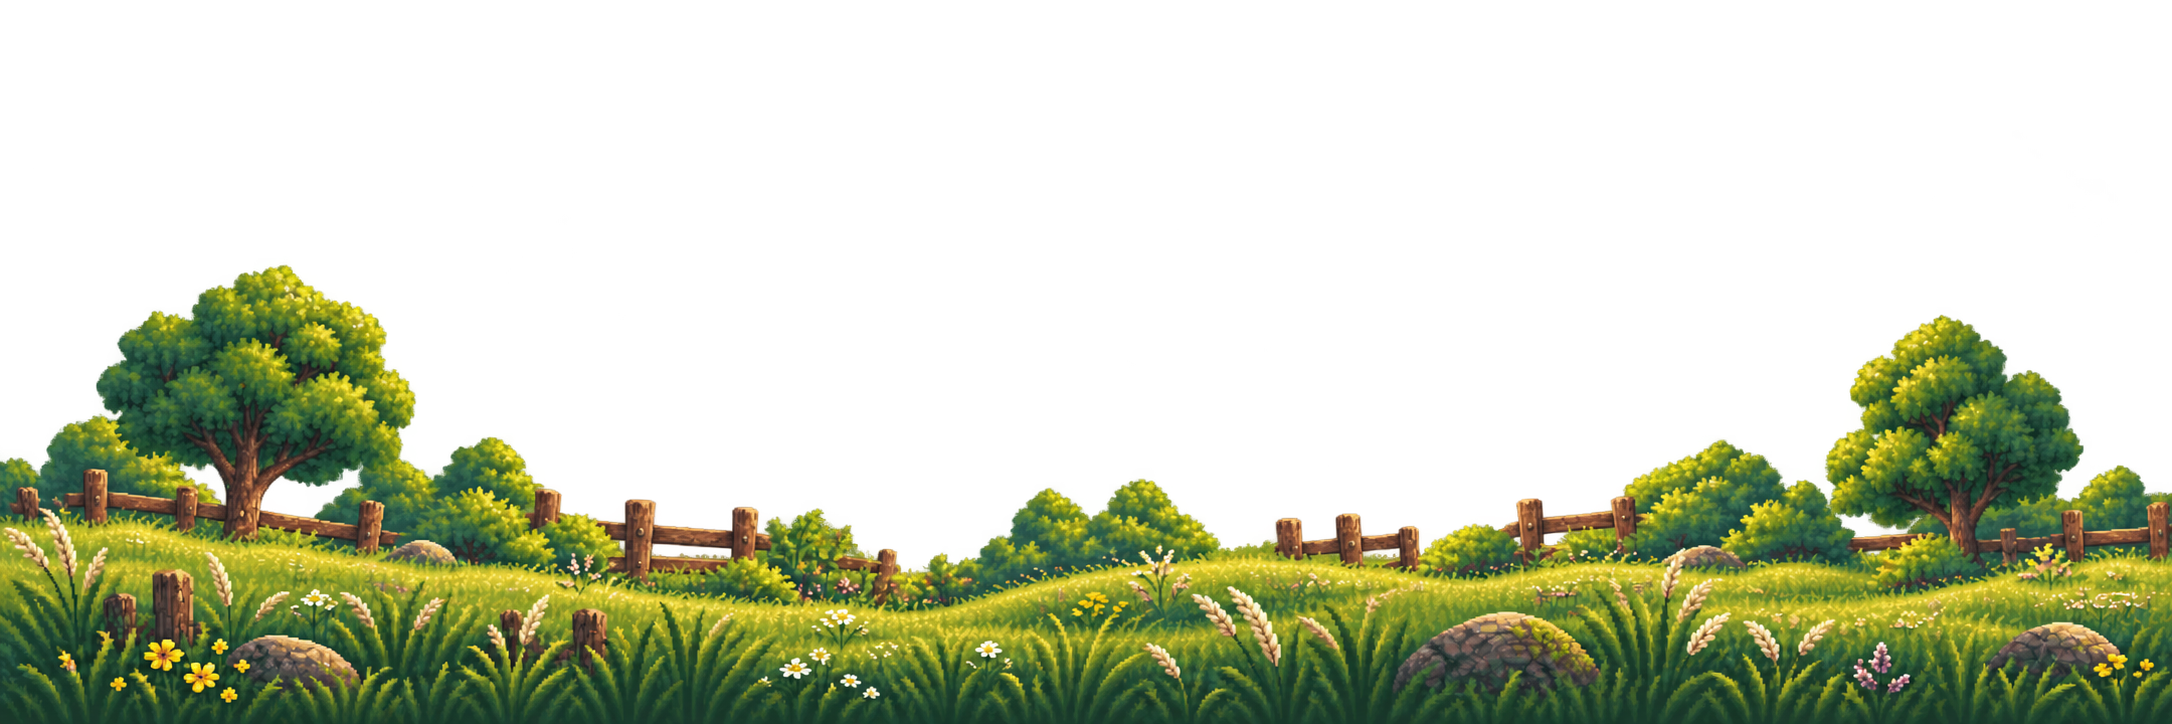
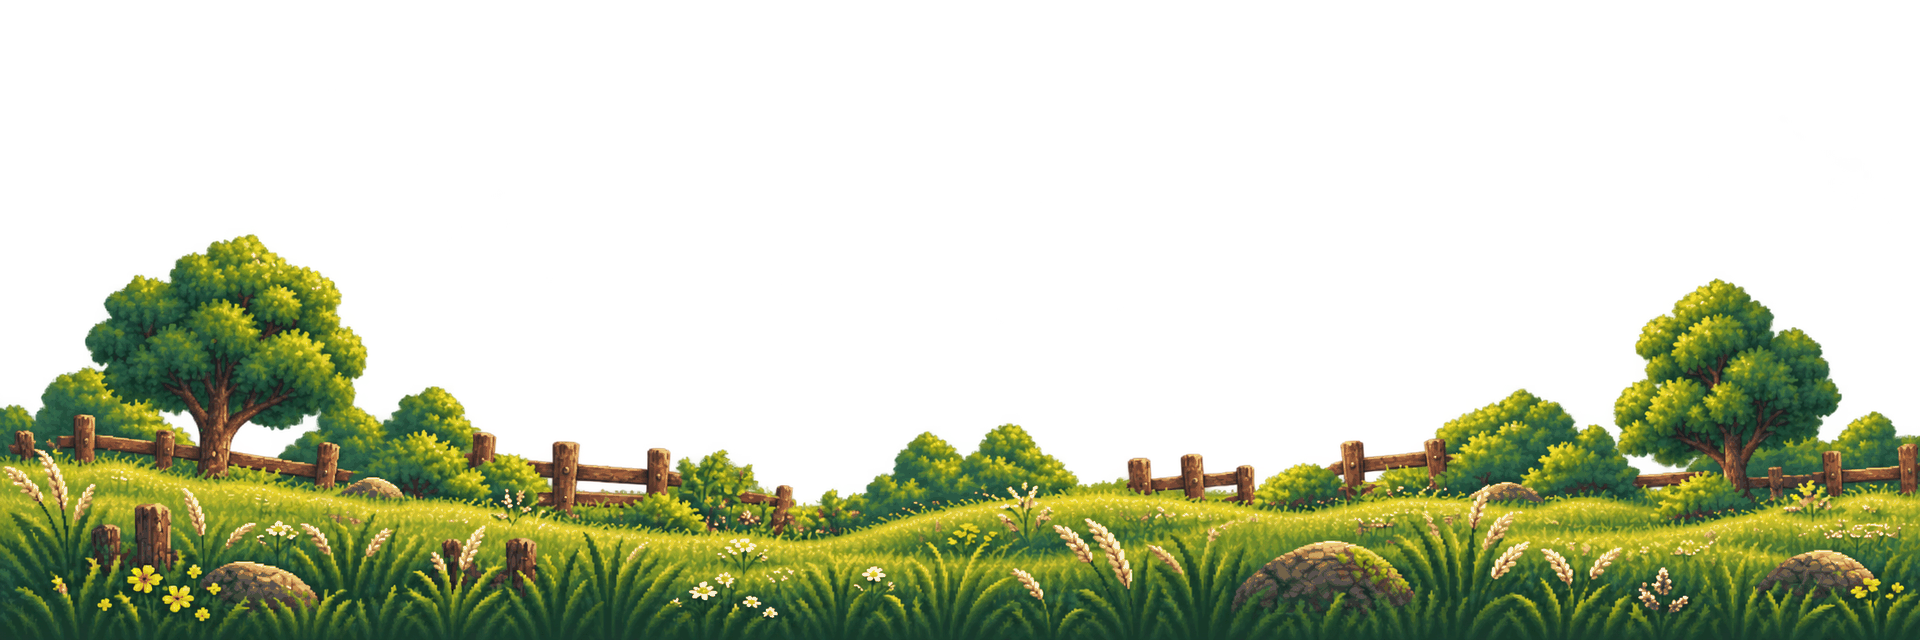
fix(assets): 전처리를 안 거치고 들어온 에셋을 뒤늦게 정리
원본이 assets-src/ 가 아니라 public/assets/ 에 바로 놓인 파일들이 있었다.
되돌릴 원본이 없어 정상 경로를 못 태우므로, 전처리와 같은 함수로 제자리에서
정리하는 scripts/repair_public_assets.py 를 두고 한 번 돌렸다.

- dog_sniff 2172x724 → 1280x160. 프레임 한 칸이 160px 로 선언되어 있어
  8프레임이 아니라 머리 조각 52칸으로 잘리던 것을 바로잡는다
- prop_sandbox 알파가 없어 체커보드 배경이 그대로 구워져 있던 것을 지운다
- 패럴랙스 레이어 5장을 가로 1920 으로 맞춘다
- prop_sign_jumpdown / lookdown 을 다른 표지판과 같은 300px 로 맞추고
  AssetManifest 와 PlaceholderScenery 에 등록한다

Claude-Session: https://claude.ai/code/session_01HDkQWgufznQ1Z3ZAsUcAjT

diff --git a/src/systems/PlaceholderScenery.js b/src/systems/PlaceholderScenery.js
@@ -678,6 +678,57 @@ const IMAGE_DRAWERS = {
       keyCap(c, 16, 20, 26, arrowGlyph('right'));
     }),
 
+  // 아래 + 점프 — 딛고 선 발판을 통과해 아래로 내려간다
+  signJumpDown: (ctx, w, h) =>
+    signBoard(ctx, w, h, (c) => {
+      c.save();
+      c.translate(0, -24);
+      dogGlyph(c, 0.55);
+      c.restore();
+      // 발판과, 그걸 뚫고 내려가는 자취
+      c.strokeStyle = '#6b5a45';
+      c.lineWidth = 3;
+      c.beginPath();
+      c.moveTo(-26, -8);
+      c.lineTo(26, -8);
+      c.stroke();
+      c.save();
+      c.setLineDash([4, 4]);
+      c.lineWidth = 2;
+      c.beginPath();
+      c.moveTo(0, -14);
+      c.lineTo(0, 6);
+      c.stroke();
+      c.restore();
+      keyCap(c, -16, 22, 26, arrowGlyph('down'));
+      keyCap(c, 16, 22, 26, arrowGlyph('up'));
+    }),
+
+  // 아래 — 카메라를 내려 아래쪽을 본다
+  signLookDown: (ctx, w, h) =>
+    signBoard(ctx, w, h, (c) => {
+      c.save();
+      c.translate(0, -22);
+      dogGlyph(c, 0.55);
+      c.restore();
+      // 발판 끝에서 아래를 내려다본다
+      c.strokeStyle = '#6b5a45';
+      c.lineWidth = 3;
+      c.beginPath();
+      c.moveTo(-26, -8);
+      c.lineTo(4, -8);
+      c.stroke();
+      c.save();
+      c.setLineDash([3, 4]);
+      c.lineWidth = 2;
+      c.beginPath();
+      c.moveTo(10, -14);
+      c.lineTo(10, 8);
+      c.stroke();
+      c.restore();
+      keyCap(c, 0, 22, 26, arrowGlyph('down'));
+    }),
+
   sandbox: (ctx, w, h) => {
     ctx.fillStyle = '#e0cda6';
     ctx.beginPath();

diff --git a/src/systems/AssetManifest.js b/src/systems/AssetManifest.js
@@ -208,6 +208,8 @@ export const IMAGES = [
   { key: 'prop_sign_move', file: PROP_DIR + 'prop_sign_move.png', placeholder: 'signMove', w: 128, h: 160 },
   { key: 'prop_sign_jump', file: PROP_DIR + 'prop_sign_jump.png', placeholder: 'signJump', w: 128, h: 160 },
   { key: 'prop_sign_run', file: PROP_DIR + 'prop_sign_run.png', placeholder: 'signRun', w: 128, h: 160 },
+  { key: 'prop_sign_jumpdown', file: PROP_DIR + 'prop_sign_jumpdown.png', placeholder: 'signJumpDown', w: 128, h: 160 },
+  { key: 'prop_sign_lookdown', file: PROP_DIR + 'prop_sign_lookdown.png', placeholder: 'signLookDown', w: 128, h: 160 },
   { key: 'prop_sandbox', file: PROP_DIR + 'prop_sandbox.png', placeholder: 'sandbox', w: 256, h: 128 },
   { key: 'prop_food_stall', file: PROP_DIR + 'prop_food_stall.png', placeholder: 'stall', w: 320, h: 256 },
   { key: 'prop_valley_pond', file: PROP_DIR + 'prop_valley_pond.png', placeholder: 'pond', w: 384, h: 160 },

diff --git a/scripts/repair_public_assets.py b/scripts/repair_public_assets.py
@@ -1,0 +1,176 @@
+"""
+전처리를 안 거치고 public/assets/ 에 바로 들어온 파일을 뒤늦게 정리한다.
+
+정상 경로는 이렇다.
+
+    assets-src/  →  npm run assets:prepare  →  public/assets/
+
+그런데 원본이 assets-src/ 에 없이 결과물 자리에 바로 놓인 파일이 생겼다.
+정상 경로를 태울 원본이 없으므로, 여기서 **제자리로** 같은 처리를 한다.
+규격이 어긋나지 않도록 prepare_assets.py 의 함수를 그대로 빌려 쓴다.
+
+  * 패럴랙스 레이어 : 가로 1920 으로 축소
+  * 낱개 소품      : 배경 제거 → 여백 잘라내기 → 높이 맞춤
+  * 8프레임 시트    : 가로를 8 로 나뉘게 맞춘 뒤 프레임 크기로 다시 굽기
+
+같은 파일을 다시 돌려도 결과는 같다 (이미 규격에 맞으면 건너뛴다).
+
+사용: python scripts/repair_public_assets.py [--dry-run]
+"""
+
+import os
+import sys
+
+import numpy as np
+from PIL import Image
+
+sys.path.insert(0, os.path.dirname(os.path.abspath(__file__)))
+
+import prepare_assets as pa  # noqa: E402
+
+# 가로 1920 으로만 맞추면 되는 패럴랙스 레이어
+PARALLAX = [
+    'bg_city_mid', 'bg_city_near',
+    'bg_coast_mid', 'bg_coast_near',
+    'bg_field_mid', 'bg_field_near',
+    'bg_mountain_mid', 'bg_mountain_near',
+]
+
+# 낱개 소품 → 목표 높이. prepare_assets.SOLO_PROPS 와 같은 값을 쓴다
+SOLO = {
+    'prop_sandbox': 520,
+    'prop_valley_pond': 700,
+    'prop_sign_jumpdown': 300,
+    'prop_sign_lookdown': 300,
+}
+
+# 8프레임 시트 → 프레임 한 칸 크기. AssetManifest.js 의 w/h 와 같아야 한다
+SHEETS = {
+    'dog_sniff': 160,
+}
+
+BG_MAX_W = 1920
+
+dry_run = '--dry-run' in sys.argv
+
+
+def report(rel, before, after, note=''):
+    tail = ('  ' + note) if note else ''
+    pa.log('%-28s %sx%s → %sx%s%s' % (rel, before[0], before[1], after[0], after[1], tail))
+
+
+def store(im, rel, before):
+    if dry_run:
+        report(rel, before, im.size, '(미리보기)')
+        return
+    pa.save(im, rel)
+    report(rel, before, im.size)
+
+
+def repair_parallax(name):
+    rel = 'bg/%s.png' % name
+    path = os.path.join(pa.OUT, rel)
+    if not os.path.exists(path):
+        pa.log('%s 없음 — 건너뜀' % rel)
+        return
+
+    im = pa.load(path)
+    if im.width <= BG_MAX_W:
+        pa.log('%-28s 이미 규격 — 건너뜀' % rel)
+        return
+
+    before = im.size
+    store(pa.fit(im, max_w=BG_MAX_W), rel, before)
+
+
+def repair_solo(name, target_h):
+    rel = 'props/%s.png' % name
+    path = os.path.join(pa.OUT, rel)
+    if not os.path.exists(path):
+        pa.log('%s 없음 — 건너뜀' % rel)
+        return
+
+    im = pa.load(path)
+    before = im.size
+    if im.height <= target_h and _transparent_ratio(im) >= 0.05:
+        pa.log('%-28s 이미 규격 — 건너뜀' % rel)
+        return
+
+    # clean_background 는 알파가 이미 충분하면 그대로 돌려준다
+    im = pa.clean_background(im)
+    im = pa.trim(im)
+    store(pa.fit(im, max_h=target_h), rel, before)
+
+
+def repair_sheet(name, cell):
+    """
+    8프레임 시트를 프레임 크기에 맞춰 다시 굽는다.
+
+    prepare_assets.do_sprites() 와 같은 절차지만, 가로가 8 로 나뉘지 않는 원본을
+    그냥 버리지 않고 가장 가까운 8의 배수로 늘려서 처리한다. 어차피 한 프레임
+    폭이 몇 px 늘고 마는 정도라 눈에 띄지 않는다.
+    """
+    rel = 'sprites/%s.png' % name
+    path = os.path.join(pa.OUT, rel)
+    if not os.path.exists(path):
+        pa.log('%s 없음 — 건너뜀' % rel)
+        return
+
+    im = pa.load(path)
+    before = im.size
+    if im.size == (cell * 8, cell):
+        pa.log('%-28s 이미 규격 — 건너뜀' % rel)
+        return
+
+    if im.width % 8 != 0:
+        snapped = max(8, int(round(im.width / 8.0)) * 8)
+        im = im.resize((snapped, im.height), Image.LANCZOS)
+
+    fw = im.width // 8
+
+    if pa.looks_magenta(im):
+        im = pa.strip_chroma(im)
+    im = pa.despill(im)
+
+    # 시트 전체 기준으로 아래 여백을 잘라 낸다.
+    # 프레임마다 자르면 위치가 흔들리므로 8장을 통째로 본다.
+    alpha = np.asarray(im)[:, :, 3]
+    rows = np.where(alpha.max(axis=1) > 8)[0]
+    if len(rows):
+        im = im.crop((0, 0, im.width, min(im.height, int(rows[-1]) + 2)))
+
+    out = Image.new('RGBA', (cell * 8, cell), (0, 0, 0, 0))
+    scale = cell / float(fw)
+    ph = max(1, min(cell, int(round(im.height * scale))))
+
+    for i in range(8):
+        piece = im.crop((i * fw, 0, (i + 1) * fw, im.height))
+        piece = piece.resize((cell, ph), Image.LANCZOS)
+        # 발이 칸 바닥에 닿도록 아래로 붙인다
+        out.paste(piece, (i * cell, cell - ph))
+
+    store(out, rel, before)
+
+
+def _transparent_ratio(im):
+    a = np.asarray(im)[:, :, 3]
+    return float((a < 16).sum()) / a.size
+
+
+def main():
+    if not os.path.isdir(pa.OUT):
+        pa.log('public/assets/ 가 없습니다.')
+        return
+
+    for name in PARALLAX:
+        repair_parallax(name)
+    for name, target_h in SOLO.items():
+        repair_solo(name, target_h)
+    for name, cell in SHEETS.items():
+        repair_sheet(name, cell)
+
+    pa.log('완료.' + (' (--dry-run 이라 아무것도 쓰지 않았다)' if dry_run else ''))
+
+
+if __name__ == '__main__':
+    main()

diff --git a/public/assets/README.md b/public/assets/README.md
@@ -9,6 +9,16 @@ assets-src/          원본 (git 에 올리지 않는다)
 public/assets/       게임이 읽는 것  ← 여기
 ```
 
+원본을 `assets-src/` 에 두지 않고 여기에 바로 넣어 버린 파일이 이미 있다면,
+되돌릴 원본이 없으므로 정상 경로를 태울 수 없다. 그럴 때만 예외로
+
+```bash
+python scripts/repair_public_assets.py [--dry-run]
+```
+
+가 그 파일들을 **제자리에서** 같은 규격으로 정리한다. 전처리와 같은 함수를
+쓰므로 결과물은 같다. 어디까지나 뒷수습이고, 원본은 `assets-src/` 에 넣는 것이 맞다.
+
 전처리가 하는 일:
 
 - **배경 레이어** — 하늘 자리에 그려진 체커보드/흰 배경을 지워 알파로 만든다
